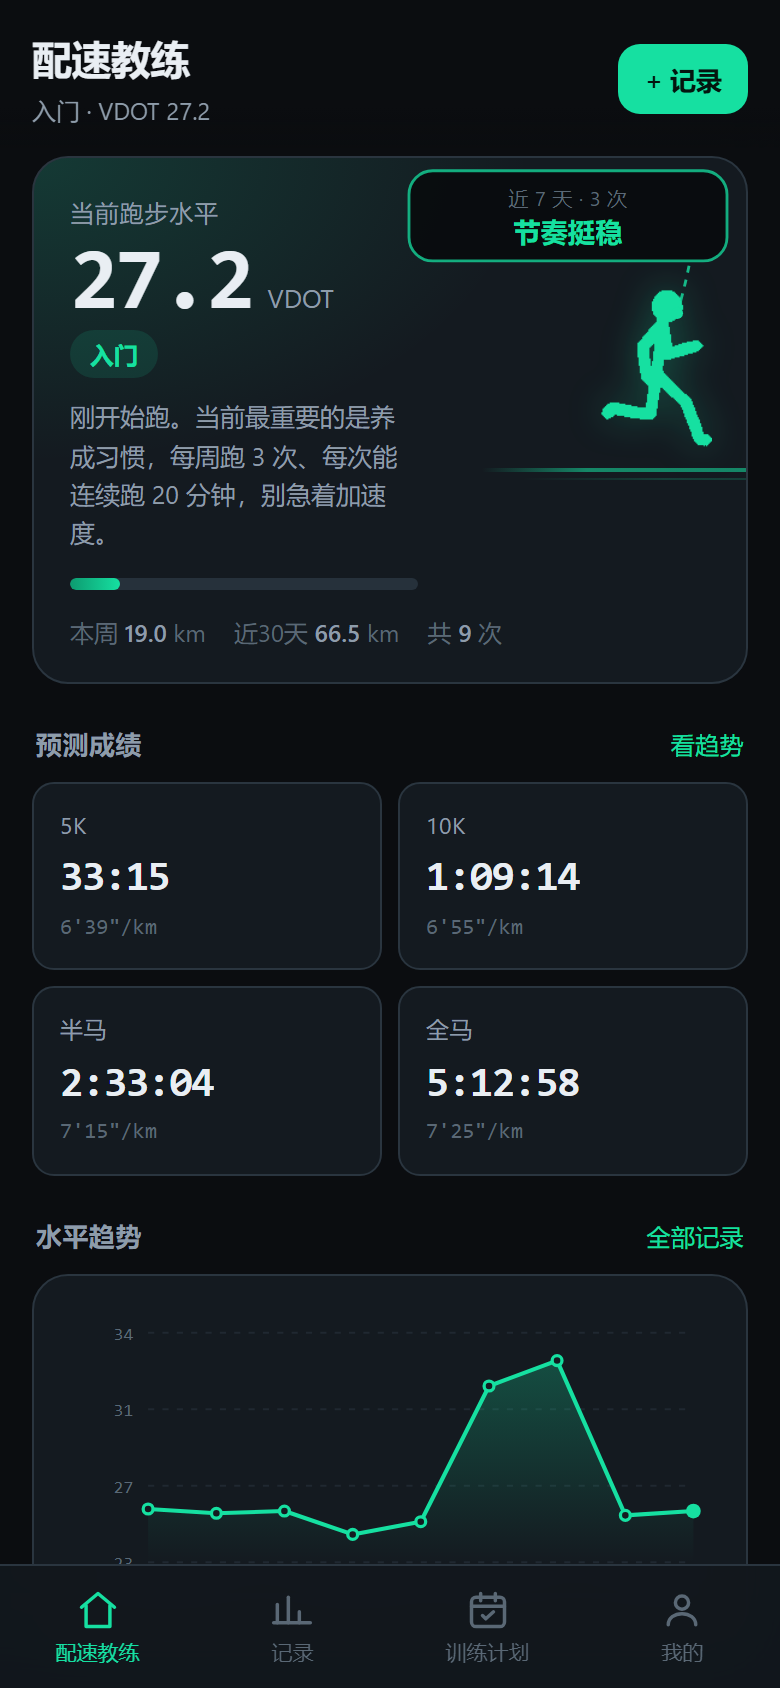
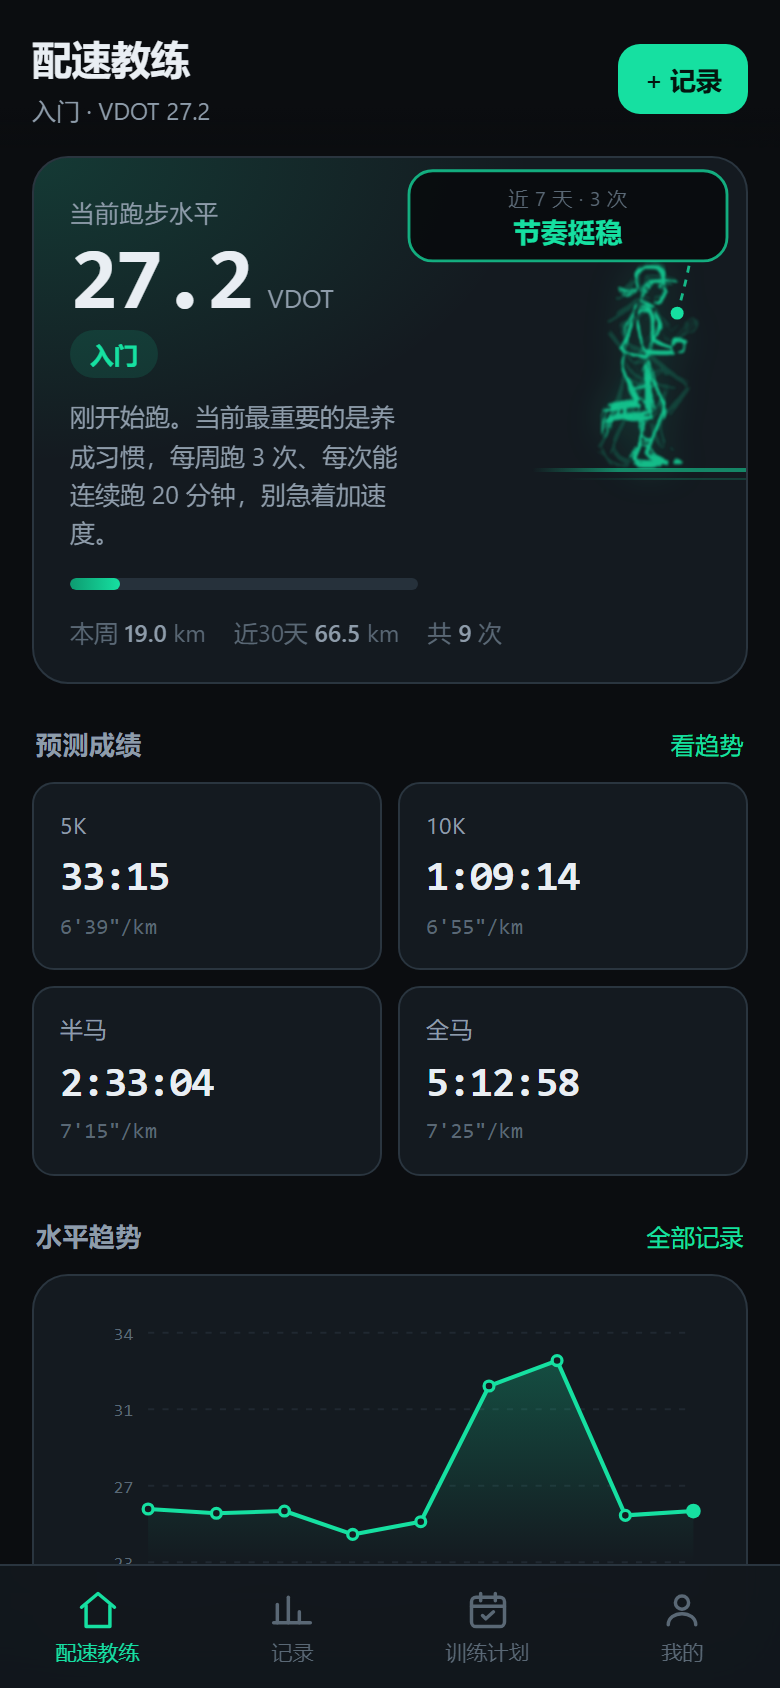
feat: 直接用视频里的手绘跑者，替换自设计火柴人（v1.5.0）
用户要求：不再设计火柴人，把视频白底抠掉，动画直接放到原位置。

从视频抽帧：
- ffmpeg（imageio-ffmpeg 装上了）：6.18s / 640x662 / 30fps，实际 15fps（每帧重复一次）
- 去重 184 帧 → 77 个不同画面
- 背景是米色 RGB(235,232,222) 不是纯白，按「与背景色的差」抠 alpha，
  笔触深浅用 alpha 保留下来，映射到主色 #16e0a1
- 自相关求循环周期：8 帧（16/24/32 帧差异完全一致）
- 取 72 帧 = 9 个整数周期，首尾无缝，共 720KB

播放：沿用已有的按相位时间插值（双帧透明度互补 + 动态模糊），
cycleMs = 120/步频 × 9 个周期，速度和原视频几乎一致且仍由步频驱动。
新帧头顶点只差 6px（显示后约 2.7px），是跑步该有的自然起伏，去掉了垂直补偿。

图标同步换成同一个手绘跑者（第 1 帧，大步跨最有辨识度），
18 个尺寸 PNG 用 gen-icons.mjs 一次重出。

diff --git a/js/app.js b/js/app.js
@@ -35,11 +35,16 @@ function recompute() {
 let stats;
 recompute();
 
-// 预热火柴人的 9 张序列帧：提前解码，切帧时才不会闪白。
+// 视频抽帧：72 帧 = 9 个完整跑步周期 × 每周期 8 帧。
+// 8 帧是视频自相关算出来的循环长度，取 9 个整数周期保证首尾无缝。
+const RUNNER_FRAMES = 72;
+const FRAMES_PER_CYCLE = 8;
+
+// 预热序列帧：提前解码，切帧时才不会闪白。
 // 用 typeof 判断而不是直接 new Image()：单测在 node 里跑，没有这个构造函数，
 // 模块顶层一碰就抛错，整个测试文件跟着挂。
 if (typeof Image !== 'undefined') {
-  for (let i = 1; i <= 9; i++) {
+  for (let i = 1; i <= RUNNER_FRAMES; i++) {
     const im = new Image();
     im.src = `assets/runner/f${i}.png`;
   }
@@ -167,12 +172,11 @@ function runnerFigure() {
 
   const sub = `近 7 天 · ${rh.count} 次${rh.estimated ? '（估算）' : ''}`;
 
-  // 逐帧垂直补偿：9 帧头顶点在原图里相差 20px，直接播会上下乱跳。
-  // 统一对齐到「最靠下的那个头位」，并且只往下移不往上 —— 往上会把头顶怼进气泡里。
-  const DY = [0.0, 2.4, 2.4, 7.9, 9.7, 9.7, 9.7, 12.2, 12.2];
+  // 72 帧全部来自视频本身（去重后按 8 帧一个循环取 9 个完整周期），
+  // 头顶点只差 6px，就是跑步该有的自然起伏，不需要再做垂直补偿。
   let frames = '';
-  for (let i = 1; i <= 9; i++) {
-    frames += `<img class="rf" style="--dy:${DY[i - 1]}px" src="assets/runner/f${i}.png" alt="" draggable="false">`;
+  for (let i = 1; i <= RUNNER_FRAMES; i++) {
+    frames += `<img class="rf" src="assets/runner/f${i}.png" alt="" draggable="false">`;
   }
 
   return `
@@ -224,7 +228,9 @@ function startRunnerAnim() {
   if (!N) return;
 
   const cadence = Math.min(210, Math.max(120, Number(rh.cadence) || 170));
-  const cycleMs = (120 / cadence) * 1000;
+  // 一个双步周期 = 120/步频 秒；这段序列里含 N/8 个周期，
+  // 所以整段播完的时间要按周期数放大，速度才和真实步频对得上。
+  const cycleMs = (120 / cadence) * 1000 * (N / FRAMES_PER_CYCLE);
   const t0 = performance.now();
 
   let lastI = -1;

diff --git a/css/app.css b/css/app.css
@@ -201,18 +201,18 @@ main {
    叠放而不是换 src，是为了避免切帧时闪白 —— 图片早就解码好了。 */
 .runner-frames {
   position: absolute;
-  right: 14px;
-  bottom: 4px;
-  width: 74px;
-  height: 105px;
-  filter: drop-shadow(0 0 9px rgba(22, 224, 161, 0.3));
+  right: 8px;
+  bottom: 2px;
+  width: 88px;
+  height: 112px;
+  filter: drop-shadow(0 0 9px rgba(22, 224, 161, 0.35)) brightness(1.15);
 }
 .runner-frames .rf {
   position: absolute;
   left: 0;
   top: 0;
   width: 100%;
-  height: 92px;
+  height: 108px;
   object-fit: contain;
   object-position: center top;
   opacity: 0;
@@ -225,7 +225,7 @@ main {
    人就在路上跑而不是在半空浮着。 */
 .runner-track {
   position: absolute;
-  left: 26%;
+  left: 40%;
   right: -6px;
   top: 151px;
   height: 1.5px;
